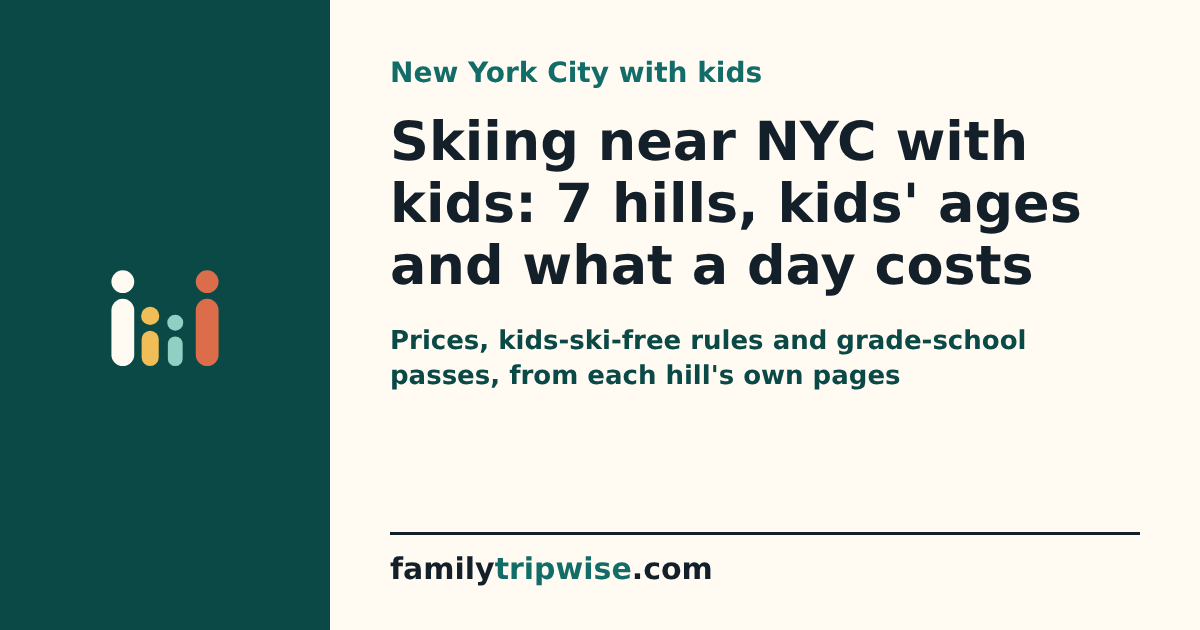
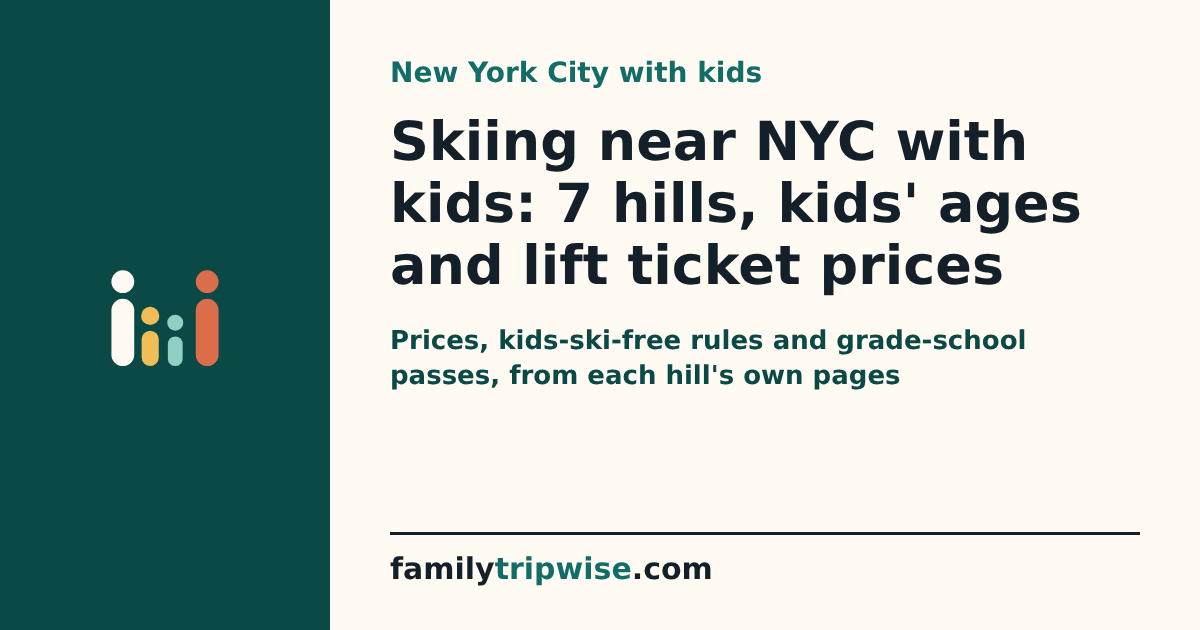
Ski NYC page cycle 1 fixes: answer before photo, lift-ticket headline, under-6 line, regions, per-hill cost figure, shorter cells (design + persona)
Claude-Session: https://claude.ai/code/session_018uWk6ubruaoYhbvtAueTka

Changed region(s): [[0.4317, 0.3619, 0.8633, 0.4825]]

diff --git a/site/ski/skiing-near-new-york-city-with-kids.html b/site/ski/skiing-near-new-york-city-with-kids.html
@@ -3,19 +3,19 @@
   <head>
     <meta charset="utf-8">
     <meta name="viewport" content="width=device-width, initial-scale=1">
-    <title>Skiing Near NYC With Kids: 7 Hills, Ages and Costs | Family Tripwise</title>
-    <meta name="description" content="Skiing near New York City with kids: 7 family hills, kids' lesson ages, kids-ski-free rules, grade-school passes and what a day costs a family of 4, from pages we read and date.">
+    <title>Skiing Near NYC With Kids: 7 Hills, Ages and Lift Ticket Prices | Family Tripwise</title>
+    <meta name="description" content="Skiing near New York City with kids: 7 family hills, kids' lesson ages, kids-ski-free rules, grade-school passes and lift ticket prices for a family of 4, from pages we read and date.">
     <link rel="canonical" href="https://familytripwise.com/ski/skiing-near-new-york-city-with-kids.html">
     <meta property="og:type" content="article">
     <meta property="og:site_name" content="Family Tripwise">
-    <meta property="og:title" content="Skiing Near NYC With Kids: 7 Hills, Ages and Costs | Family Tripwise">
-    <meta property="og:description" content="Skiing near New York City with kids: 7 family hills, kids' lesson ages, kids-ski-free rules, grade-school passes and what a day costs a family of 4, from pages we read and date.">
+    <meta property="og:title" content="Skiing Near NYC With Kids: 7 Hills, Ages and Lift Ticket Prices | Family Tripwise">
+    <meta property="og:description" content="Skiing near New York City with kids: 7 family hills, kids' lesson ages, kids-ski-free rules, grade-school passes and lift ticket prices for a family of 4, from pages we read and date.">
     <meta property="og:url" content="https://familytripwise.com/ski/skiing-near-new-york-city-with-kids.html">
     <meta property="og:image" content="https://familytripwise.com/images/og/ski-new-york-city.png">
     <meta property="og:image:type" content="image/png">
     <meta property="og:image:width" content="1200">
     <meta property="og:image:height" content="630">
-    <meta property="og:image:alt" content="Family Tripwise: skiing near New York City with kids, hills, kids' ages and what a day costs">
+    <meta property="og:image:alt" content="Family Tripwise: skiing near New York City with kids, hills, kids' ages and lift ticket prices">
     <meta name="twitter:card" content="summary_large_image">
     <link rel="stylesheet" href="../styles.css">
   </head>
@@ -25,20 +25,20 @@
       <section class="page-hero">
         <div class="container">
           <p class="eyebrow">New York City · Skiing with kids</p>
-          <h1>Skiing Near New York City With Kids: 7&nbsp;Hills, Kids' Ages and What a Day Costs</h1>
-          <p>Closest family hills, kids' lesson ages, free-kid rules and grade-school passes, from each hill's own page.</p>
+          <h1>Skiing Near New York City With Kids: 7&nbsp;Hills, Kids' Ages and Lift Ticket Prices</h1>
+          <p>North Jersey, the Hudson Valley, the Catskills and the Poconos: kids&#39; lesson ages, free-kid rules and grade-school passes, from each hill&#39;s own page.</p>
           <p class="contributor-credit">Researched with AI (<a href="../contributors/miles-rowan.html">Miles Rowan</a>) · sources linked and dated · <a href="../about.html">How we check</a></p>
         </div>
+      </section>
+      <section id="ski-answer" class="container answer-box" aria-label="The short answer">
+        <p class="holiday-answer-figure"><span>Saturday lift tickets for 4 at Mount Peter (rentals extra)</span><strong>$348</strong><small>2 adults $89 + 2 juniors (5–11) $85, 2026–27 weekend all-day rates. Rentals and lessons extra. Estimate, read Nov 10.</small></p>
+        <ul><li><strong>Under 6:</strong> Mountain Creek free with an adult ticket; Big SNOW $24.99 for 2 hours with rentals (weekdays); Mount Peter $45 on weekends (4 and under)</li><li><strong>No car:</strong> <a href="#big-snow">Big SNOW American Dream</a>, indoor slope in East Rutherford, NJ; NJ Transit bus 355 from Port Authority, under 30 minutes</li><li><strong>3rd–5th graders:</strong> the SKI NY Kids Passport gives free lift tickets with a paying adult at many NY and NJ hills (<a href="#passes">details</a>)</li><li><strong>First time:</strong> <a href="#mount-peter">Mount Peter</a>, free beginner lessons every day, the hill says</li></ul>
       </section>
       <section class="container media-section hero-photo-section">
         <figure class="licensed-photo hero-photo">
           <img src="../images/hunter-kaatskill-flyer-lift.webp" alt="Skiers at the base of the Kaatskill Flyer chairlift at Hunter Mountain on a sunny winter day" width="1600" height="1200" loading="eager" fetchpriority="high" decoding="async">
           <figcaption>The Kaatskill Flyer chairlift at Hunter Mountain, New York, an older photo. Photo: CurlingMan13 via <a href="https://commons.wikimedia.org/wiki/File:Kaatskill_Flyer_Chairlift_at_Windham_Mountain_Resort.jpg">Wikimedia Commons</a>, <a href="https://creativecommons.org/licenses/by-sa/4.0">CC BY-SA 4.0</a>. Resized and cropped.</figcaption>
         </figure><p class="holiday-nudge">Coming for the holidays? <a href="../holidays/new-york-city-christmas-with-kids.html">Christmas in New York City with kids, free and paid</a></p>
-      </section>
-      <section id="ski-answer" class="container answer-box" aria-label="The short answer">
-        <p class="holiday-answer-figure"><span>Saturday lift tickets for 4 at Mount Peter</span><strong>$348</strong><small>2 adults $89 + 2 juniors (5–11) $85, 2026–27 weekend all-day rates. Rentals and lessons extra. Estimate, read Nov 10.</small></p>
-        <ul><li><strong>No car:</strong> <a href="#big-snow">Big SNOW American Dream</a>, indoor slope in East Rutherford, NJ; NJ Transit bus 355 from Port Authority, under 30 minutes</li><li><strong>Little kids free:</strong> Mountain Creek (6 and under, with an adult ticket) and Camelback (5 and under)</li><li><strong>3rd–5th graders:</strong> the SKI NY Kids Passport gives free lift tickets with a paying adult at many NY and NJ hills (<a href="#passes">details</a>)</li><li><strong>First time:</strong> <a href="#mount-peter">Mount Peter</a>, free beginner lessons every day, the hill says</li></ul>
       </section>
       <section class="container page-section" aria-labelledby="ski-table-title">
         <h2 id="ski-table-title">Compare the 7 hills</h2>
@@ -47,9 +47,9 @@
             <caption><span>Family of 4: 2 adults + 2 kids, ages 5 and 8. Prices from each hill's page, read Nov 10; most change by date.</span></caption>
             <thead><tr><th scope="col">Hill</th><th scope="col">For kids</th><th scope="col">Prices we could read</th></tr></thead>
             <tbody>
-              <tr><th scope="row"><a href="#big-snow">Big SNOW American Dream</a><small>East Rutherford, NJ · indoor</small><small class="holiday-when-inline">6 and under: Little SNOW Day, 2 hours with rentals</small></th><td class="holiday-when">6 and under: Little SNOW Day, 2 hours with rentals</td><td class="holiday-cost">Weekdays: SNOW Day $99.99, 6 and under $24.99; weekends cost more</td></tr>
-              <tr><th scope="row"><a href="#mount-peter">Mount Peter</a><small>Warwick, NY · about an hour from NYC, the hill says</small><small class="holiday-when-inline">Free beginner ski and snowboard lessons every day, the hill says (no details on what they include)</small></th><td class="holiday-when">Free beginner ski and snowboard lessons every day, the hill says (no details on what they include)</td><td class="holiday-cost">Weekend all day: $89 adult, $85 junior; 2026–27</td></tr>
-              <tr><th scope="row"><a href="#mountain-creek">Mountain Creek</a><small>Vernon, NJ</small><small class="holiday-when-inline">6 and under ski free with an adult&#39;s full-day ticket</small></th><td class="holiday-when">6 and under ski free with an adult&#39;s full-day ticket</td><td class="holiday-cost">Go Package (7+, ticket and rental) $139.99; lift tickets: check live</td></tr>
+              <tr><th scope="row"><a href="#big-snow">Big SNOW American Dream</a><small>East Rutherford, NJ · indoor</small><small class="holiday-when-inline">6 and under: Little SNOW Day, 2 hours with rentals</small></th><td class="holiday-when">6 and under: Little SNOW Day, 2 hours with rentals</td><td class="holiday-cost">From $24.99 weekdays; weekends more</td></tr>
+              <tr><th scope="row"><a href="#mount-peter">Mount Peter</a><small>Warwick, NY · about an hour from NYC, the hill says</small><small class="holiday-when-inline">Free beginner ski and snowboard lessons every day, the hill says (no details on what they include)</small></th><td class="holiday-when">Free beginner ski and snowboard lessons every day, the hill says (no details on what they include)</td><td class="holiday-cost">Weekend: $89 adult, $85 junior</td></tr>
+              <tr><th scope="row"><a href="#mountain-creek">Mountain Creek</a><small>Vernon, NJ</small><small class="holiday-when-inline">6 and under ski free with an adult&#39;s full-day ticket</small></th><td class="holiday-when">6 and under ski free with an adult&#39;s full-day ticket</td><td class="holiday-cost">Go Package $139.99 (7+); tickets: check live</td></tr>
               <tr><th scope="row"><a href="#thunder-ridge">Thunder Ridge</a><small>Patterson, NY</small><small class="holiday-when-inline">Ski lessons from age 4; snowboard from 6</small></th><td class="holiday-when">Ski lessons from age 4; snowboard from 6</td><td class="holiday-cost">2026–27 prices not posted yet</td></tr>
               <tr><th scope="row"><a href="#camelback">Camelback</a><small>Tannersville, PA · Poconos</small><small class="holiday-when-inline">5 and under ski free (pick up the ticket at Guest Services with a birth certificate)</small></th><td class="holiday-when">5 and under ski free (pick up the ticket at Guest Services with a birth certificate)</td><td class="holiday-cost">Check live</td></tr>
               <tr><th scope="row"><a href="#hunter">Hunter Mountain</a><small>Hunter, NY · Catskills · Epic Pass</small><small class="holiday-when-inline">Child group lessons for ages 7–14; younger kids go in smaller groups by ability</small></th><td class="holiday-when">Child group lessons for ages 7–14; younger kids go in smaller groups by ability</td><td class="holiday-cost">Check live</td></tr>
@@ -60,7 +60,7 @@
       </section>
       <section class="container page-section" aria-labelledby="ski-pick-title">
         <h2 id="ski-pick-title">Which one fits your kids</h2>
-        <ul class="holiday-picks"><li><strong>Under 6, first time on snow:</strong> <a href="#big-snow">Big SNOW American Dream</a> or <a href="#mountain-creek">Mountain Creek</a>. Big SNOW&#39;s Little SNOW Day ($24.99, 2 hours with rentals) or Mountain Creek, where 6 and under ski free with an adult.</li><li><strong>No car:</strong> <a href="#big-snow">Big SNOW American Dream</a>. The only hill here with a direct bus from Manhattan.</li><li><strong>Cheapest Saturday we could price:</strong> <a href="#mount-peter">Mount Peter</a>. $348 in lift tickets for the four of you, the only 2026–27 weekend prices posted so far.</li><li><strong>3rd, 4th or 5th grader:</strong> <a href="#belleayre">Belleayre</a>. Takes the SKI NY Kids Passport any day, holidays included.</li></ul>
+        <ul class="holiday-picks"><li><strong>Under 6, first time on snow:</strong> <a href="#big-snow">Big SNOW American Dream</a>. Little SNOW Day: 2 hours with rentals for $24.99 on weekdays.</li><li><strong>Under 6, outdoors:</strong> <a href="#mountain-creek">Mountain Creek</a>. 6 and under ski free with an adult&#39;s full-day ticket.</li><li><strong>No car:</strong> <a href="#big-snow">Big SNOW American Dream</a>. The only hill here with a direct bus from Manhattan.</li><li><strong>Cheapest Saturday we could price:</strong> <a href="#mount-peter">Mount Peter</a>. $348 in lift tickets for the four of you, the only 2026–27 weekend prices posted so far.</li><li><strong>3rd, 4th or 5th grader:</strong> <a href="#belleayre">Belleayre</a>. Takes the SKI NY Kids Passport any day, holidays included.</li></ul>
         <p class="holiday-note">Our picks from the hills' published details, not from a visit. We don't report snow conditions; check each hill's snow report before you go.</p>
       </section>
       <section class="container page-section" aria-labelledby="ski-cards-title">
@@ -69,6 +69,7 @@
           <article id="big-snow" class="holiday-card">
             <h3>Big SNOW American Dream</h3>
             <p class="holiday-place">East Rutherford, NJ · indoor</p>
+            <p class="holiday-figure">From $24.99<small>per person for 2 hours with rentals, weekdays; weekends cost more, read Nov 10</small></p>
             <ul><li>6 and under: Little SNOW Day, 2 hours with rentals</li><li>Ages 5–12: Camp BIG, a 3-hour beginner program with rentals, helmet and jacket and pants</li><li>Snow play and tubing from age 3; 36 inches with an adult, 42 inches alone</li></ul>
             <p><strong>Prices on its page, read Nov 10:</strong></p><ul><li>SNOW Day, ages 7+: 2 hours, rentals, jacket and pants, helmet: <strong>$99.99 + tax</strong></li><li>Little SNOW Day, 6 and under: <strong>$24.99 + tax</strong></li><li>Camp BIG, ages 5–12: <strong>$149.99 + tax</strong></li><li>Snow play and tubing, 1.5 hours: <strong>$29.99 + tax</strong></li></ul>
             <p><strong>Prices:</strong> The page says weekend and holiday prices apply on Saturdays, Sundays and holidays but doesn&#39;t show them, so a Saturday costs more than these. Gloves are $12 extra.</p>
@@ -80,6 +81,7 @@
           <article id="mount-peter" class="holiday-card">
             <h3>Mount Peter</h3>
             <p class="holiday-place">Warwick, NY · about an hour from NYC, the hill says</p>
+            <p class="holiday-figure">$348<small>Saturday lift tickets, family of 4, estimate; rentals extra, read Nov 10</small></p>
             <ul><li>Free beginner ski and snowboard lessons every day, the hill says (no details on what they include)</li><li>4 and under (Tiny Tots, one per adult): free midweek with an adult ticket; weekends priced below</li><li>Snow tubing; sessions on its tubing calendar</li></ul>
             <p><strong>Prices on its page, read Nov 10:</strong></p><ul><li>Weekend all day, adult: <strong>$89</strong></li><li>Weekend all day, junior 5–11: <strong>$85</strong></li><li>Weekend Tiny Tot, 4 and under: <strong>$45</strong></li><li>Midweek all day, adult or junior: <strong>$75</strong></li><li>Saturday twilight (3 p.m. to close): <strong>$65</strong></li></ul>
             <p><strong>Prices:</strong> 2026–27 rates. Rentals and helmets aren&#39;t included; Tiny Tot tickets are sold in person only.</p>
@@ -91,6 +93,7 @@
           <article id="mountain-creek" class="holiday-card">
             <h3>Mountain Creek</h3>
             <p class="holiday-place">Vernon, NJ</p>
+            <p class="holiday-figure">$139.99<small>Go Package per person, ages 7+: ticket and rental, read Nov 10</small></p>
             <ul><li>6 and under ski free with an adult&#39;s full-day ticket</li><li>Kids Camp, ages 4–12: 2-hour lesson, rental and a full-day ticket (price not on its page)</li><li>Vern&#39;s Outdoor Park, 6 and under, 30-minute sessions on weekends (needs a day ticket)</li></ul>
             <p><strong>Prices on its page, read Nov 10:</strong></p><ul><li>Go Package, ages 7+: full-day ticket, rental, self-guided learning area: <strong>$139.99 + tax</strong></li><li>Go Package after 3 p.m.: <strong>$99.99</strong></li></ul>
             <p><strong>Prices:</strong> Lift tickets are sold online only and weren&#39;t showing prices on Nov 10. Closer parking lots are $20 and $50. The Go Package page names no season.</p>
@@ -102,6 +105,7 @@
           <article id="thunder-ridge" class="holiday-card">
             <h3>Thunder Ridge</h3>
             <p class="holiday-place">Patterson, NY</p>
+            <p class="holiday-figure holiday-figure-text">Check live<small>2026–27 prices not posted yet</small></p>
             <ul><li>Ski lessons from age 4; snowboard from 6</li><li>Weekend group lessons: 75 minutes, ages 4–7 lower mountain only</li><li>No rental helmets; buy one in its shop or bring your own</li></ul>
             
             <p><strong>Prices:</strong> 2026–27 lift prices weren&#39;t posted on Nov 10 (its page still shows last season). Lesson prices on its page have no season label, so we don&#39;t show them.</p>
@@ -113,6 +117,7 @@
           <article id="camelback" class="holiday-card">
             <h3>Camelback</h3>
             <p class="holiday-place">Tannersville, PA · Poconos</p>
+            <p class="holiday-figure holiday-figure-text">Check live<small>prices change by date</small></p>
             <ul><li>5 and under ski free (pick up the ticket at Guest Services with a birth certificate)</li><li>Snow tubing in 2-hour sessions: 33–43 inches in a double tube with an adult, 44 inches alone</li><li>Kids Camp, ages 4–14, is for kids who can already ski blue runs</li></ul>
             
             <p><strong>Prices:</strong> Its ticket pages showed no day prices on Nov 10; check its online store for your date.</p>
@@ -124,6 +129,7 @@
           <article id="hunter" class="holiday-card">
             <h3>Hunter Mountain</h3>
             <p class="holiday-place">Hunter, NY · Catskills · Epic Pass</p>
+            <p class="holiday-figure holiday-figure-text">Check live<small>prices change by date</small></p>
             <ul><li>Child group lessons for ages 7–14; younger kids go in smaller groups by ability</li><li>Kids must be potty trained; helmets required and not rented</li><li>Does not take the SKI NY Kids Passport</li></ul>
             
             <p><strong>Prices:</strong> Prices change by date; its lessons page shows none. Epic Pass holders save 20% on group lessons, it says.</p>
@@ -135,6 +141,7 @@
           <article id="belleayre" class="holiday-card">
             <h3>Belleayre</h3>
             <p class="holiday-place">Highmount, NY · Catskills · state-run</p>
+            <p class="holiday-figure holiday-figure-text">Check live<small>2026–27 prices not posted yet</small></p>
             <ul><li>Takes the SKI NY Kids Passport any day, holidays included</li><li>Beginner packages (ticket, rental, group lesson) are listed for ages 13 and up; ask about younger kids</li></ul>
             
             <p><strong>Prices:</strong> 2026–27 day prices weren&#39;t on its pages on Nov 10.</p>
@@ -157,13 +164,13 @@
           <article class="holiday-card">
             <h3>PA Outdoor Adventure Pass</h3>
             <p class="holiday-place">4th and 5th graders from any state</p>
-            <ul><li>A lift ticket or lesson deal at each participating Pennsylvania hill, set by the hill (not free tickets), plus outdoor deals all year, valid through August 2027.</li><li><strong>Cost:</strong> $69 per child.</li><li><strong>How:</strong> Buy online with photos of your child and you and proof of grade; grade checks take 1–3 business days.</li><li><strong>Where:</strong> Near NYC it lists Camelback, Blue Mountain and Shawnee Mountain. Each hill sets its own offer and blackout dates.</li></ul>
+            <ul><li>A lift ticket or lesson deal at each participating Pennsylvania hill, set by the hill (not free tickets), plus outdoor deals all year, valid through August 2027.</li><li><strong>Cost:</strong> $69 per child.</li><li><strong>How:</strong> Buy online with photos of your child and you and proof of grade; grade checks take 1–3 business days.</li><li><strong>Where:</strong> Near NYC: Camelback, Blue Mountain and Shawnee Mountain; each sets its own offer and blackout dates.</li></ul>
             <p class="holiday-source"><a href="https://paoutdooradventure.com/ski-pa-snowpass-replacement/">PA Outdoor Adventure Pass</a> (read Nov 10)</p>
           </article>
         </div>
       </section>
       <section class="container trust-panel" aria-label="How we check">
-        <p><strong>How we check:</strong> we read each hill's own pages and the pass programs' pages on the date shown, and leave out any price without a season label. We have not skied these hills. Snow, weather, crowds and safety are not covered here.</p>
+        <p><strong>How we check:</strong> we read each hill's and pass program's own pages on the date shown and leave out prices without a season label. We have not skied these hills, and don't cover snow, crowds or safety.</p>
       </section>
     </main>
     <nav class="related-guides" aria-labelledby="related-guides-title"><h2 id="related-guides-title">More New York City family guides</h2><ul><li><a href="../things-to-do/new-york-city-with-kids.html">Things to do with kids</a></li><li><a href="../things-to-do/new-york-city-with-teens.html">New York City with teens</a></li><li><a href="../where-to-stay/new-york-city-with-kids.html">Where to stay (areas)</a></li><li><a href="../where-to-stay/new-york-city-family-hotels.html">Family hotels</a></li><li><a href="../family-itinerary/new-york-city-with-kids.html">Family itinerary</a></li></ul><p class="related-this-week"><a href="../this-week/#new-york-city">NYC family events and deadlines this week</a></p></nav><footer class="site-footer"><p>Family Tripwise uses research-based planning notes. Hotel fees, hours, policies, closures, and transit conditions can change, so verify important details before booking.</p><nav class="guide-directory" aria-label="All family guides"><h2>All family guides</h2><ul><li><span class="guide-directory-city">Chicago:</span> <a href="../things-to-do/chicago-with-kids.html">Things to do with kids</a><span aria-hidden="true"> · </span><a href="../things-to-do/chicago-with-teens.html">Chicago with teens</a><span aria-hidden="true"> · </span><a href="../where-to-stay/chicago-with-kids.html">Where to stay (areas)</a><span aria-hidden="true"> · </span><a href="../where-to-stay/chicago-family-hotels.html">Family hotels</a><span aria-hidden="true"> · </span><a href="../family-itinerary/chicago-with-kids.html">Family itinerary</a></li><li><span class="guide-directory-city">San Antonio:</span> <a href="../things-to-do/san-antonio-with-kids.html">Things to do with kids</a><span aria-hidden="true"> · </span><a href="../things-to-do/san-antonio-with-teens.html">San Antonio with teens</a><span aria-hidden="true"> · </span><a href="../where-to-stay/san-antonio-with-kids.html">Where to stay (areas)</a><span aria-hidden="true"> · </span><a href="../where-to-stay/san-antonio-family-hotels.html">Family hotels</a><span aria-hidden="true"> · </span><a href="../family-itinerary/san-antonio-with-kids.html">Family itinerary</a></li><li><span class="guide-directory-city">San Diego:</span> <a href="../things-to-do/san-diego-with-kids.html">Things to do with kids</a><span aria-hidden="true"> · </span><a href="../things-to-do/san-diego-with-toddlers.html">San Diego with toddlers</a><span aria-hidden="true"> · </span><a href="../things-to-do/san-diego-with-teens.html">San Diego with teens</a><span aria-hidden="true"> · </span><a href="../where-to-stay/san-diego-with-kids.html">Where to stay (areas)</a><span aria-hidden="true"> · </span><a href="../where-to-stay/san-diego-family-hotels.html">Family hotels</a><span aria-hidden="true"> · </span><a href="../family-itinerary/san-diego-with-kids.html">Family itinerary</a></li><li><span class="guide-directory-city">Las Vegas:</span> <a href="../things-to-do/las-vegas-with-kids.html">Things to do with kids</a><span aria-hidden="true"> · </span><a href="../things-to-do/las-vegas-with-teens.html">Las Vegas with teens</a><span aria-hidden="true"> · </span><a href="../where-to-stay/las-vegas-with-kids.html">Where to stay (areas)</a><span aria-hidden="true"> · </span><a href="../where-to-stay/las-vegas-family-hotels.html">Family hotels</a><span aria-hidden="true"> · </span><a href="../family-itinerary/las-vegas-with-kids.html">Family itinerary</a></li><li><span class="guide-directory-city">New York City:</span> <a href="../things-to-do/new-york-city-with-kids.html">Things to do with kids</a><span aria-hidden="true"> · </span><a href="../things-to-do/new-york-city-with-teens.html">New York City with teens</a><span aria-hidden="true"> · </span><a href="../where-to-stay/new-york-city-with-kids.html">Where to stay (areas)</a><span aria-hidden="true"> · </span><a href="../where-to-stay/new-york-city-family-hotels.html">Family hotels</a><span aria-hidden="true"> · </span><a href="../family-itinerary/new-york-city-with-kids.html">Family itinerary</a><span aria-hidden="true"> · </span><a href="../ski/skiing-near-new-york-city-with-kids.html" aria-current="page">Skiing nearby</a></li><li><span class="guide-directory-city">Orlando:</span> <a href="../things-to-do/orlando-with-kids.html">Things to do with kids</a><span aria-hidden="true"> · </span><a href="../where-to-stay/orlando-family-hotels.html">Family suite hotels</a></li><li><span class="guide-directory-city">Washington, DC:</span> <a href="../where-to-stay/washington-dc-family-hotels.html">Family hotels</a><span aria-hidden="true"> · </span><a href="../family-itinerary/washington-dc-with-kids.html">Family itinerary</a></li><li><span class="guide-directory-city">Boston:</span> <a href="../where-to-stay/boston-family-hotels.html">Family hotels</a><span aria-hidden="true"> · </span><a href="../family-itinerary/boston-with-kids.html">Family itinerary</a></li><li><span class="guide-directory-city">London:</span> <a href="../where-to-stay/london-family-hotels.html">Family hotels and apartments</a></li><li><span class="guide-directory-city">Cancun:</span> <a href="../where-to-stay/cancun-family-resorts.html">Family resorts</a></li><li><span class="guide-directory-city">Puerto Vallarta:</span> <a href="../where-to-stay/puerto-vallarta-family-resorts.html">Family resorts</a></li></ul></nav><p class="footer-links"><a href="../about.html">How our family travel guides are built</a><span aria-hidden="true"> · </span><a href="../privacy.html">Privacy</a><span aria-hidden="true"> · </span><a href="../terms.html">Terms</a></p></footer>
